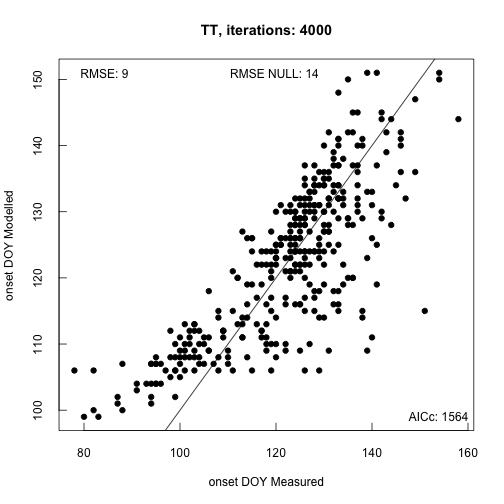
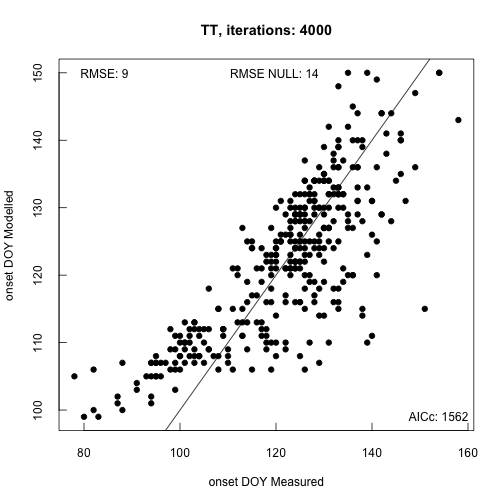
new slides

diff --git a/docs/index.html b/docs/index.html
@@ -214,7 +214,7 @@ points(x = as.Date(td$transition_80, origin = "1970-01-01"),
 
 ![](index_files/figure-html/unnamed-chunk-8-1.png)&lt;!-- --&gt;
 
---- 
+---
 # Downloading other data sources
 
 - phenor specific
@@ -392,18 +392,18 @@ phenocam_par &lt;- model_calibration(
 ## 
 ## Residuals:
 ##     Min      1Q  Median      3Q     Max 
-## -23.337  -5.703  -1.669   4.865  35.938 
+## -28.112  -5.925  -1.101   4.983  36.934 
 ## 
 ## Coefficients:
 ##             Estimate Std. Error t value Pr(&gt;|t|)    
-## (Intercept)  2.32136    4.81286   0.482     0.63    
-## out          0.98035    0.03928  24.961   &lt;2e-16 ***
+## (Intercept)  0.73270    4.98344   0.147    0.883    
+## out          0.99415    0.04071  24.422   &lt;2e-16 ***
 ## ---
 ## Signif. codes:  0 '***' 0.001 '**' 0.01 '*' 0.05 '.' 0.1 ' ' 1
 ## 
-## Residual standard error: 8.738 on 356 degrees of freedom
-## Multiple R-squared:  0.6364,	Adjusted R-squared:  0.6354 
-## F-statistic:   623 on 1 and 356 DF,  p-value: &lt; 2.2e-16
+## Residual standard error: 8.86 on 356 degrees of freedom
+## Multiple R-squared:  0.6262,	Adjusted R-squared:  0.6252 
+## F-statistic: 596.4 on 1 and 356 DF,  p-value: &lt; 2.2e-16
 ```
 
 ---
@@ -418,18 +418,18 @@ phenocam_par &lt;- model_calibration(
 ## 
 ## Residuals:
 ##     Min      1Q  Median      3Q     Max 
-## -27.667  -5.565  -1.463   4.628  36.425 
+## -26.338  -5.955  -1.423   4.314  36.448 
 ## 
 ## Coefficients:
 ##             Estimate Std. Error t value Pr(&gt;|t|)    
-## (Intercept)   0.7438     4.9424    0.15     0.88    
-## out           0.9898     0.0402   24.62   &lt;2e-16 ***
+## (Intercept) -2.91638    5.07508  -0.575    0.566    
+## out          1.02147    0.04136  24.698   &lt;2e-16 ***
 ## ---
 ## Signif. codes:  0 '***' 0.001 '**' 0.01 '*' 0.05 '.' 0.1 ' ' 1
 ## 
-## Residual standard error: 8.814 on 356 degrees of freedom
-## Multiple R-squared:  0.6301,	Adjusted R-squared:  0.629 
-## F-statistic: 606.3 on 1 and 356 DF,  p-value: &lt; 2.2e-16
+## Residual standard error: 8.797 on 356 degrees of freedom
+## Multiple R-squared:  0.6315,	Adjusted R-squared:  0.6304 
+## F-statistic:   610 on 1 and 356 DF,  p-value: &lt; 2.2e-16
 ```
 
 ```
@@ -437,20 +437,20 @@ phenocam_par &lt;- model_calibration(
 ## [1] "TT"
 ## 
 ## $par
-## [1] 182.30158  -1.24394 366.05075
+## [1] 181.315488  -2.345552 413.600425
 ## 
 ## $rmse
-## [1] 8.80436
+## [1] 8.780851
 ## 
 ## $rmse_null
 ## [1] 14.45103
 ## 
 ## $aic
 ## $aic$AIC
-## [1] 1563.477
+## [1] 1561.563
 ## 
 ## $aic$AICc
-## [1] 1563.545
+## [1] 1561.63
 ## 
 ## 
 ## $bt_output
@@ -468,7 +468,7 @@ print(phenocam_par$par)
 ```
 
 ```
-## [1] 177.330135  -3.468603 487.207863
+## [1] 182.8292062  -0.8307441 337.2325324
 ```
 
 ---
